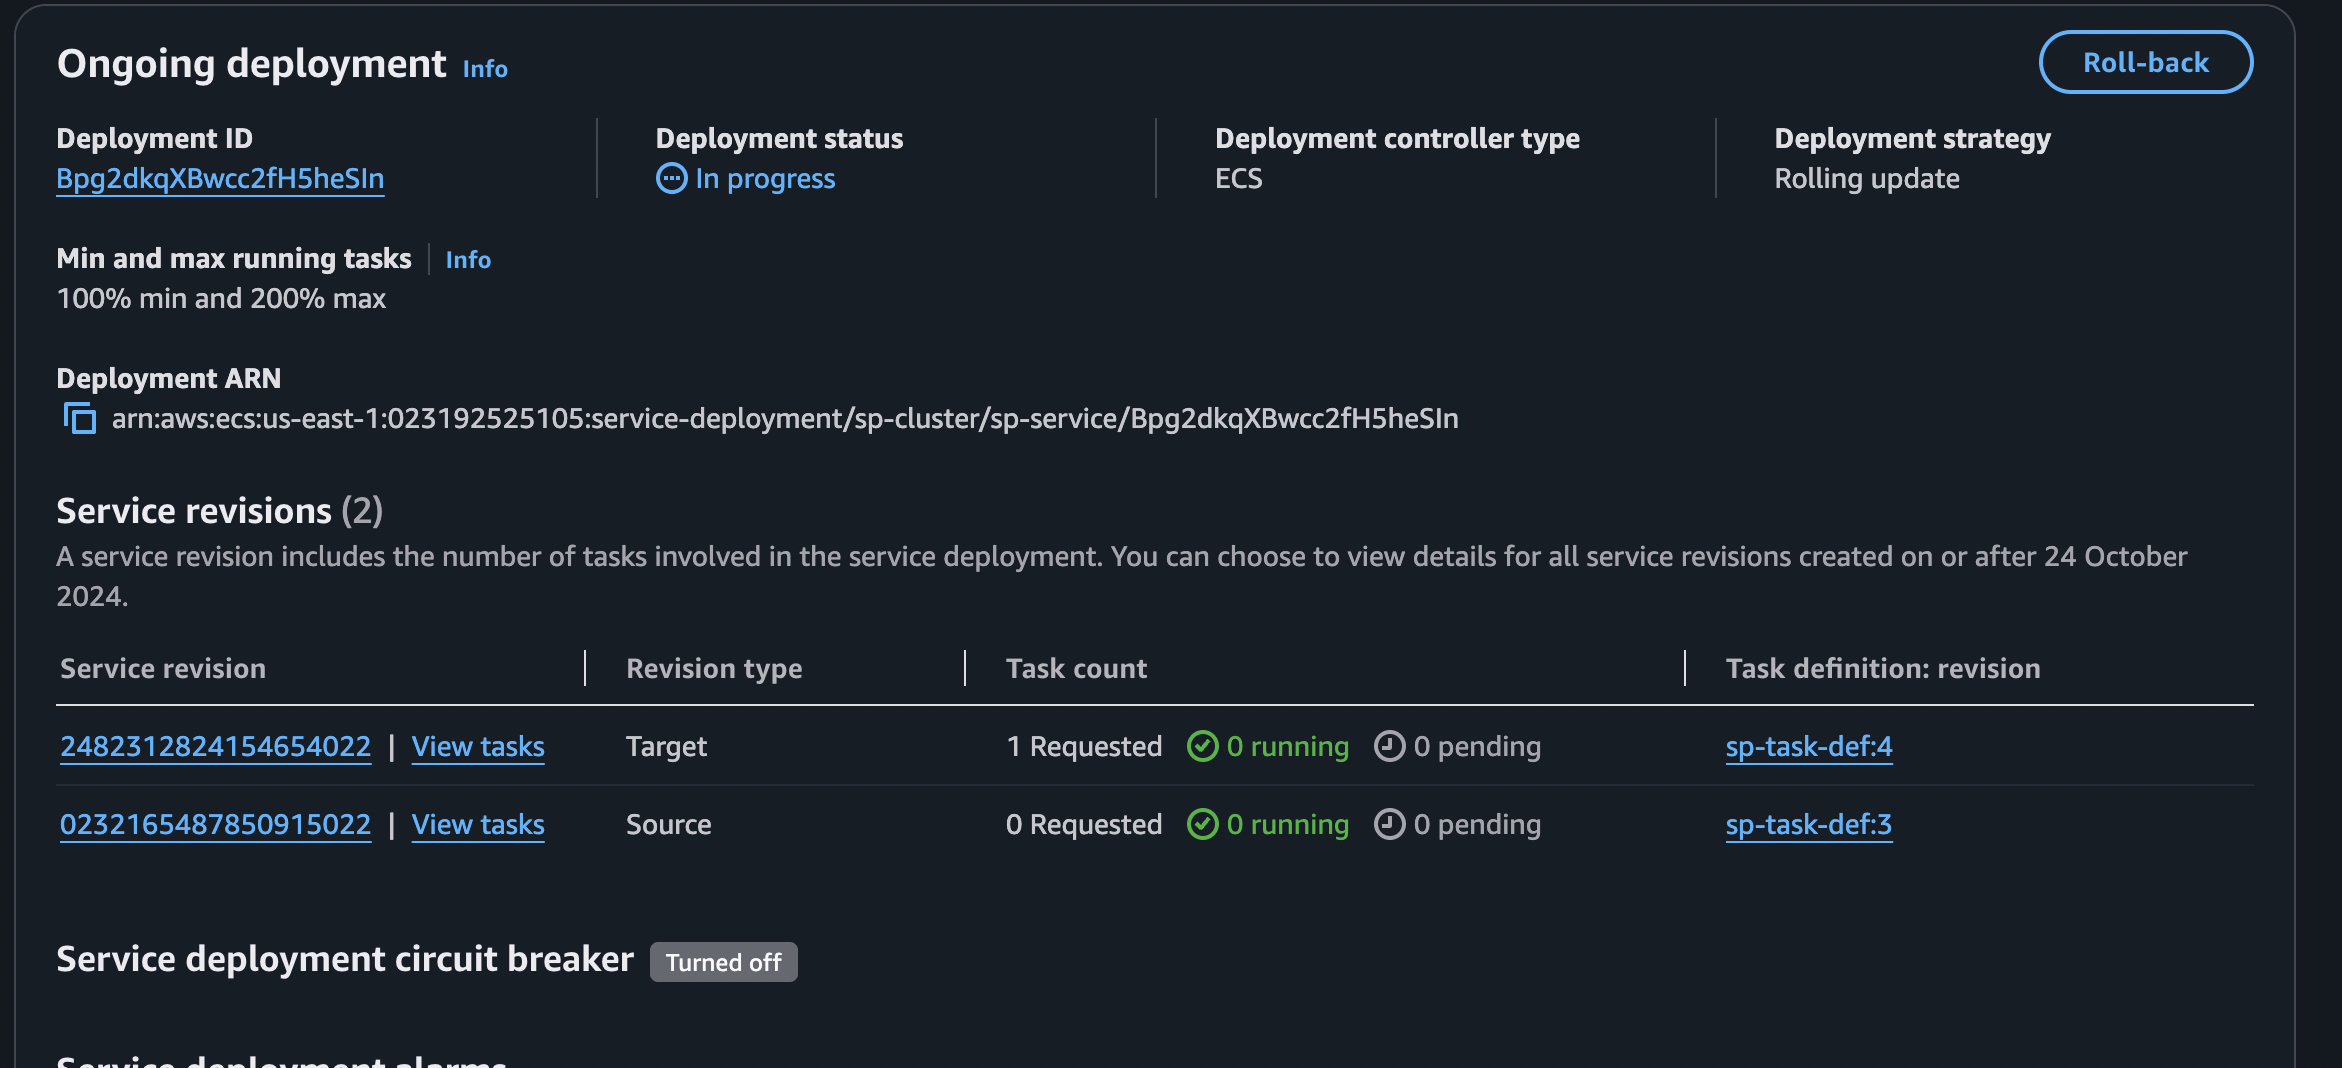
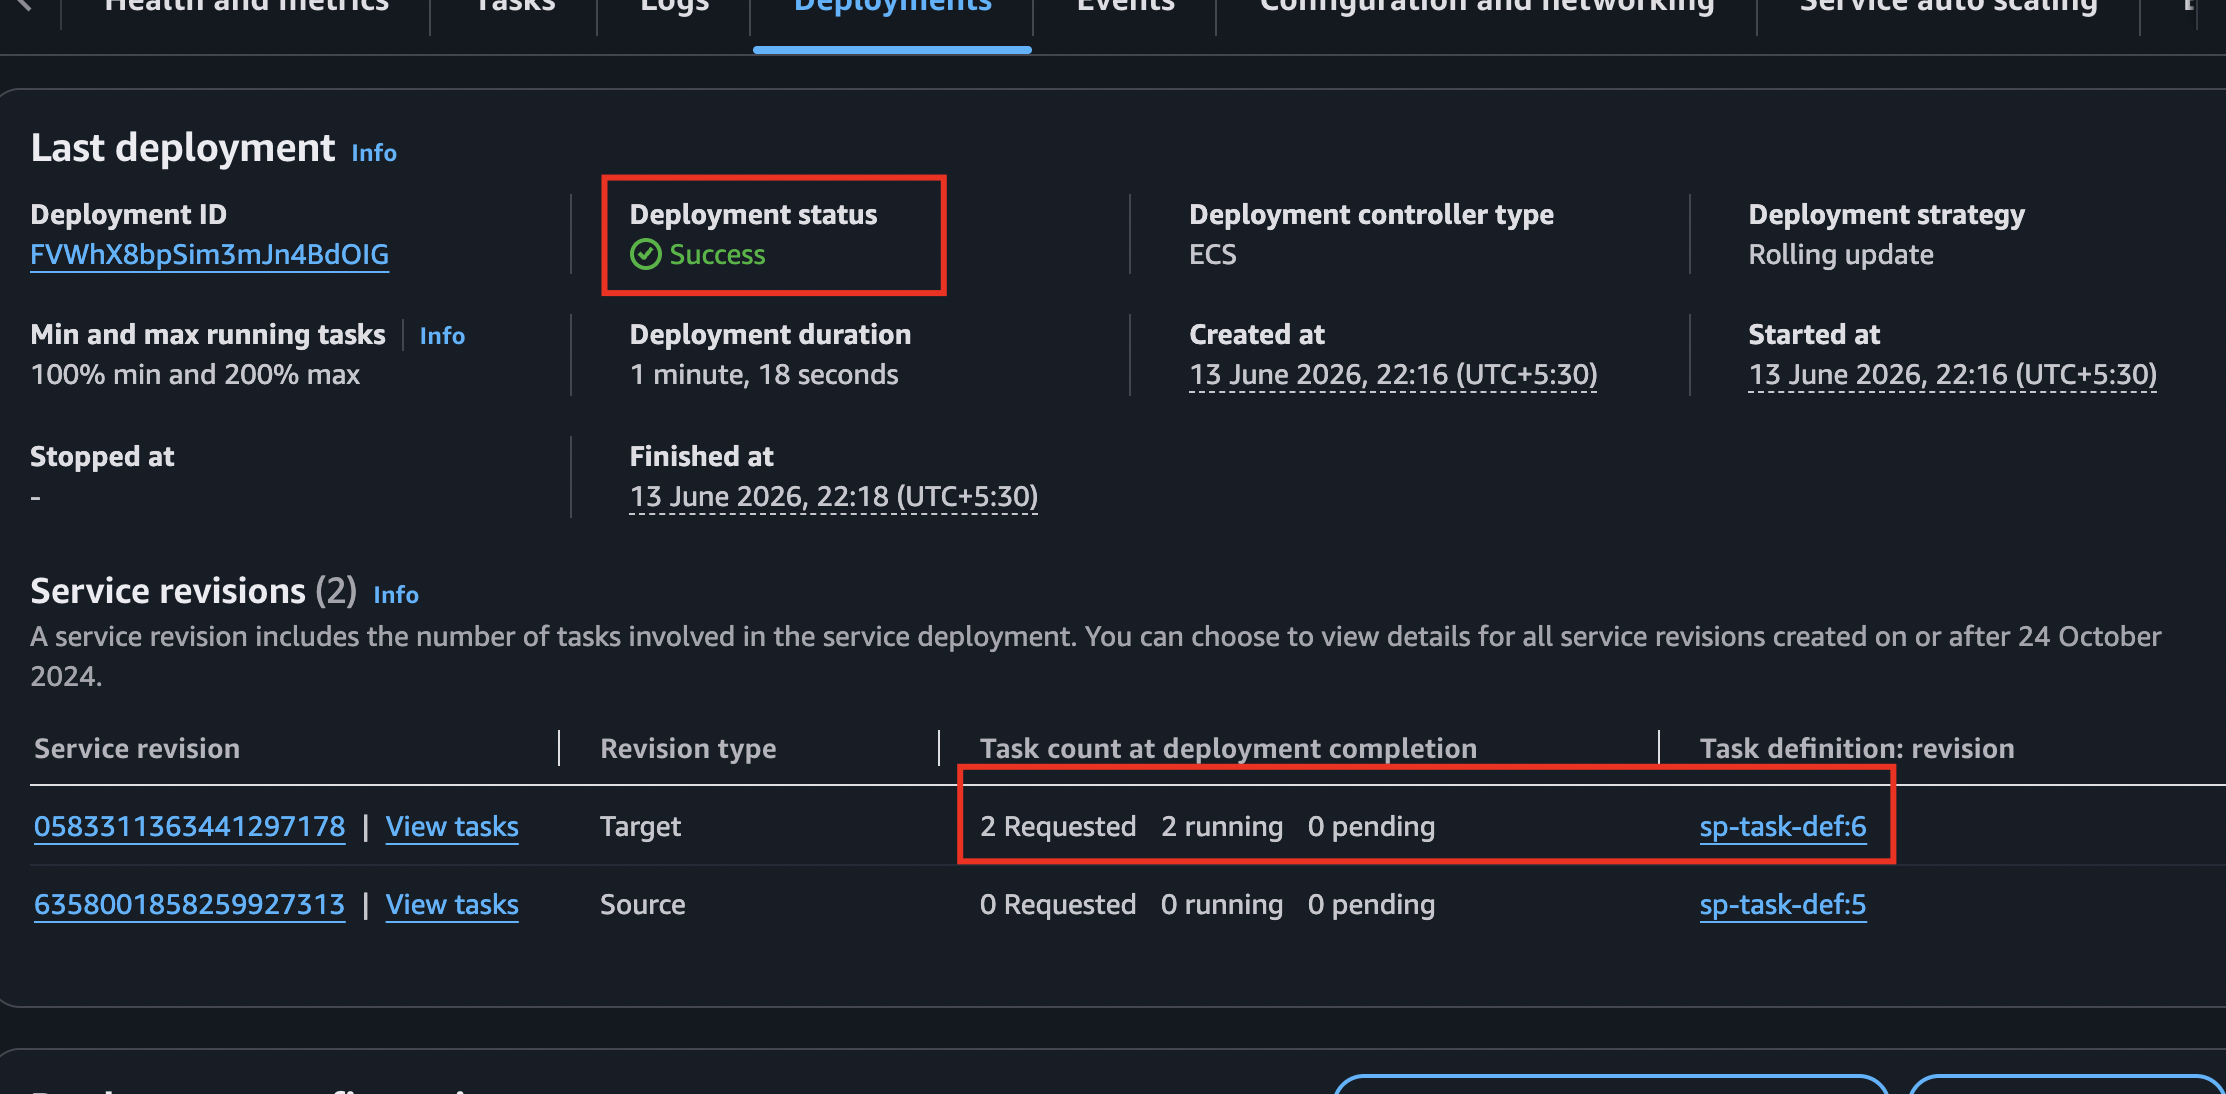
troubleshooting and readme updated

diff --git a/terraform-ecs-app-deployment/troubleshooting.md b/terraform-ecs-app-deployment/troubleshooting.md
@@ -240,7 +240,262 @@ Also, updated the terraform code in secrets manager creation with `recovery_wind
 > Note: To verify changes are applid expected in state then run the following command `terraform state show aws_secretsmanager_secret.sp_rds_secret`
 ---
 
+# Troubleshooting Log
 
+## 1. Terraform Pipeline Succeeded but No Infrastructure Created
+
+### Root Cause
+
+The GitHub Actions workflow had a typo in the condition:
+
+```yaml
+if: inputs.plan_or_apply_or_destroy == 'apply' || inputs.plan_or_apply_or_destroy == 'destroy'
+```
+
+Input variable was actually:
+
+```yaml
+plan_or_apply_destroy
+```
+
+### Fix
+
+```yaml
+if: inputs.plan_or_apply_destroy == 'apply' || inputs.plan_or_apply_destroy == 'destroy'
+```
+
+---
+
+## 2. Secrets Manager Secret Already Scheduled for Deletion
+
+### Error
+
+```text
+InvalidRequestException:
+You can't create this secret because a secret with this name is already scheduled for deletion.
+```
+
+### Root Cause
+
+Terraform destroy scheduled the secret for deletion and AWS reserved the secret name.
+
+### Verification
+
+```bash
+aws secretsmanager describe-secret \
+  --secret-id sp-rds-secret \
+  --region us-east-1
+```
+
+Output contained:
+
+```json
+"DeletedDate": "..."
+```
+
+### Fix
+
+Force delete the secret:
+
+```bash
+aws secretsmanager delete-secret \
+  --secret-id sp-rds-secret \
+  --force-delete-without-recovery \
+  --region us-east-1
+```
+
+Verify deletion:
+
+```bash
+aws secretsmanager describe-secret \
+  --secret-id sp-rds-secret \
+  --region us-east-1
+```
+
+Expected:
+
+```text
+ResourceNotFoundException
+```
+
+### Preventive Fix
+
+```hcl
+resource "aws_secretsmanager_secret" "sp_rds_secret" {
+  name                    = "sp-rds-secret"
+  recovery_window_in_days = 0
+}
+```
+
+---
+
+## 3. ECS Task Failed to Start
+
+### Error
+
+```text
+CannotPullContainerError:
+student-portal:latest not found
+```
+
+### Root Cause
+
+Task definition referenced an image tag that did not exist in ECR.
+
+### Fix
+
+Run Build & Deploy pipeline to push image:
+
+```bash
+docker buildx build \
+  --platform linux/amd64 \
+  --push \
+  -t <ecr-repo>:${GITHUB_SHA} \
+  -t <ecr-repo>:latest .
+```
+
+Verify image exists in ECR.
+
+---
+
+## 4. GitHub Actions jq Syntax Error
+
+### Error
+
+```text
+unexpected EOF while looking for matching `'`
+```
+
+### Root Cause
+
+Invalid jq command syntax.
+
+### Fix
+
+```yaml
+- name: Update Task Definition
+  run: |
+    jq --arg IMAGE "${{ env.ECR_REPO }}:${{ env.ECR_TAG }}" \
+      '.containerDefinitions[0].image = $IMAGE' \
+      task-definition.json > task-definition-updated.json
+```
+
+---
+
+## 5. ECS Container Crash - ModuleNotFoundError
+
+### Error
+
+```text
+ModuleNotFoundError: No module named 'app'
+```
+
+### Root Cause
+
+Application package was renamed from:
+
+```text
+app/
+```
+
+to:
+
+```text
+src/
+```
+
+but imports were not updated.
+
+### Fixes
+
+#### run.py
+
+```python
+from src import create_app, db
+```
+
+#### src/**init**.py
+
+```python
+from src.logging_config import setup_logging
+from src.metrics import http_requests_total, request_duration_seconds
+from src.routes import routes, auth
+```
+
+#### src/models/models.py
+
+```python
+from src import db, login_manager
+```
+
+#### src/routes/auth.py
+
+```python
+from src.models.models import User, db
+from src.metrics import auth_attempts
+```
+
+#### src/routes/routes.py
+
+```python
+from src.models.models import Student, Attendance, db, Class, Assignment, Announcement
+from src.metrics import (
+```
+
+### Validation
+
+Find remaining invalid imports:
+
+```bash
+grep -R "from app" .
+grep -R "import app" .
+```
+
+Expected:
+
+```text
+(no output)
+```
+
+---
+
+## 6. ECS Deployment Validation
+
+### Verify ECS Task
+
+```text
+ECS → Cluster → Service → Tasks
+```
+
+Expected:
+
+```text
+Running = 1
+Pending = 0
+Desired = 1
+```
+
+### Verify Application
+
+* Login page accessible
+* User authentication working
+* Sanity testing completed
+
+---
+
+## Final Status
+
+```text
+Terraform Apply              ✅
+Secrets Manager             ✅
+RDS                         ✅
+ECR Image Push              ✅
+ECS Deployment              ✅
+ALB Routing                 ✅
+Application Login           ✅
+Sanity Testing              ✅
+```
+---
 
 
 

diff --git a/terraform-ecs-app-deployment/README.md b/terraform-ecs-app-deployment/README.md
@@ -557,5 +557,16 @@ After pipeline runs succesfully:
 
 ![alt text](screenshots/RollingUpdate.png)
 
+![alt text](screenshots/DockerImage.png)
+
+![alt text](screenshots/Logs.png) 
+
+![alt text](screenshots/ALBHealth.png) 
+
+![alt text](screenshots/AppTest.png) 
+
+---
+
+
 
 